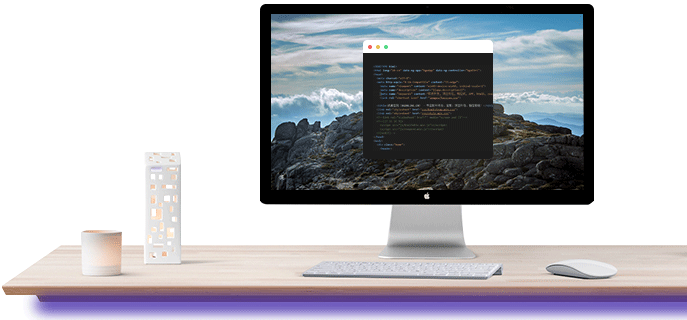
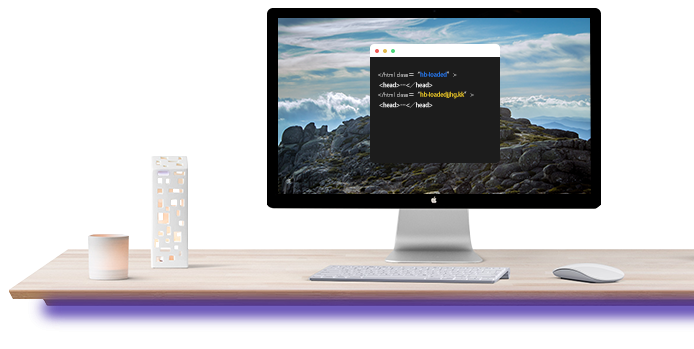
完善了一些内容

diff --git a/index.html b/index.html
@@ -57,32 +57,93 @@
     <div class="advantage-bg"></div>
     <div class="container">
       <div class="row">
-        <div class="col-xs-12 col-sm-4">
-          <h1 class="advantage-title">我可以做什么</h1>
+        <div class="col-xs-12">
+          <h1 class="big-title">我可以做什么</h1>
         </div>
-        <div class="col-xs-12 col-sm-8">
-
+      </div>
+      <div class="row">
+        <div class="col-xs-12 col-sm-7"></div>
+        <div class="col-xs-12 col-sm-5">
+          <ul>
+            <li>
+              <img src="images/chart_ico1.png" alt="">
+              <div>
+                <h2 class="small-title">小标题</h2>
+                <span>小标题小标题小标题小标题小标题小标题小标题小标题小标题小标题小标题</span>
+              </div>
+            </li>
+            <li>
+              <img src="images/chart_ico2.png" alt="">
+              <div>
+                <h2 class="small-title">小标题</h2>
+                <span>小标题小标题小标题小标题小标题小标题小标题小标题小标题小标题小标题</span>
+              </div>
+            </li>
+            <li>
+              <img src="images/chart_ico3.png" alt="">
+              <div>
+                <h2 class="small-title">小标题</h2>
+                <span>小标题小标题小标题小标题小标题小标题小标题小标题小标题小标题小标题</span>
+              </div>
+            </li>
+          </ul>
         </div>
       </div>
     </div>
   </section>
   <section class="procedure">
-    <div class="advantage-bg"></div>
     <div class="container">
       <div class="row">
-        <div class="col-xs-12 col-sm-4">
-          <h1 class="procedure-title">合作流程</h1>
+        <div class="col-xs-12">
+          <h1 class="big-title">合作流程</h1>
         </div>
-        <div class="col-xs-12 col-sm-8">
-          
+      </div>
+      <div class="row">
+        <div class="col-xs-3">
+          <p class="step"><span>1</span>标题1</p>
+          <span class="step-con">合作流程合作流程合作流程合作流程</span>
         </div>
+        <div class="col-xs-1"></div>
+        <div class="col-xs-3">
+          <p class="step"><span>2</span>标题2</p>
+          <span class="step-con">合作流程合作流程合作流程合作流程合作流程</span>
+        </div>
+        <div class="col-xs-1"></div>
+        <div class="col-xs-3">
+          <p class="step"><span>3</span>标题3</p>
+          <span class="step-con">合作流程合作流程合作流程合作流程合作流程合作流程</span>
+        </div>
+        <div class="col-xs-1"></div>
       </div>
     </div>
   </section>
   <section class="interested">
-
+    <div class="container">
+      <div class="row">
+        <div class="col-xs-12">
+          <h1 class="big-title">对我们感兴趣</h1>
+          <p>对我们感兴趣对我们感兴趣对我们感兴趣对我们感兴趣</span>
+          <p class="change-form">
+            <a href=""></a>
+            <a href=""></a>
+          </p>
+        </div>
+      </div>
+      <div class="row">
+        
+      </div>
+    </div>
   </section>
-
+  <footer>
+    <div class="container">
+        <div class="row">
+          <div class="col-xs-12 col-sm-6">
+            <img src="images/logo2.png">
+          </div>
+          <div class="col-xs-12 col-sm-6"></div>
+        </div>
+    </div>
+  </footer>
   <script src="js/angular.min.js"></script>
   <script src="js/main.min.js"></script>
 </body>

diff --git a/css/style.min.css b/css/style.min.css
@@ -22,21 +22,17 @@ div, ul, li, nav, span, img, tr, th, td, h1, h2, h3, dl, dt, dd, a, i, p {
   _height: 1%;
 }
 
-a:hover {text-decoration: none;}
-a:link {text-decoration: none;}
+a:hover {text-decoration: none; }
+a:link {text-decoration: none; }
 a:focus { outline: none; }
 
-.home {
-  background-color: #6a42bd;
-  border: 1px solid red;
+.home { 
+  padding-bottom: 50px;
+  background-color: #6a42bd; 
 }
 
-.home header{
-  padding: 30px 0;
-}
-.home header nav {
-  float: right;
-}
+.home header{ padding: 30px 0; }
+.home header nav { float: right; }
 .home header nav ul li {
   float: left;
   margin-left: 15px;
@@ -45,17 +41,18 @@ a:focus { outline: none; }
   color: #eee;
   padding: 0 15px;
 }
-.home header nav ul li a:hover {
-  color: #fff;
-}
-.home .home-banner {
+.home header nav ul li a:hover { color: #fff; }
+.home .home-banner { 
   padding: 100px 0;
+  position: relative;
 }
 .home .banner-bg {
-  width: 687px;
+  width: 636px;
   height: 320px;
-  float: right;
+  position: absolute;
+  right: 0;
   background: url('../images/computer.png') no-repeat;
+  background-size: 100% 100%;
 }
 .home .banner-title {
   font-size: 5em;
@@ -68,40 +65,70 @@ a:focus { outline: none; }
 
 .advantage {
   background-color: #fff;
-  border: 1px solid red;
+  position: relative;
 }
-.advantage .advantage-bg {
-  width: 426px;
-  height: 399px;
-  float: left;
-  background: url('../images/section2.png') no-repeat;
-}
-.advantage .advantage-title {
+.big-title {
   font-size: 2em;
+  margin-top: 80px;
 }
-.advantage .advantage-title::before {
+.big-title::before {
   content: '';
   display: block;
   width: 40px;
   border: 1px solid #6a42bd;
   position: absolute;
-  bottom: 0;
+  bottom: -5px;
 }
 
-
+.advantage .advantage-bg {
+  width: 400px;
+  height: 360px;
+  background: url('../images/section2.png') no-repeat;
+  background-size: 100% 100%;
+  position: absolute;
+  left: 0;
+  bottom: 0;
+}
+.advantage ul { margin-bottom: 50px; }
+.advantage ul li { padding: 30px 0; }
+.advantage ul li img {
+  width: 100px;
+  height: 90px;
+  float: left;
+  margin-right: 20px;
+}
+.advantage ul li div > .small-title {
+  font-size: 1.12em;
+  padding: 8px 0;
+}
 .procedure {
   background-color: #f7f5ff;
-  border: 1px solid red;
+  padding-bottom: 100px;
+}
+.procedure .step { margin-top: 50px; }
+.procedure .step > span {
+  font-size: 6em;
+  margin-right: 15px;
+  color: #C3BAE5;
+}
+.interested {
+  background: url('../images/section3.png') no-repeat;
+  background-size: 100% 100%;
+}
+.interested .big-title, .interested p {
+  color: #eee;
+  text-align: center;
+}
+.interested .big-title::before {
+  display: none;
+}
+.interested p {
+  
+}
+.change-form a{
+  display: inline-block;
+  width: 50px;
+  height: 1px;
+  border: 1px solid #fff;
 }
 
-.procedure .procedure-title {
-  font-size: 2em;
-}
-.procedure .procedure-title::before {
-  content: '';
-  display: block;
-  width: 40px;
-  border: 1px solid #6a42bd;
-  position: absolute;
-  bottom: 0;
-}
